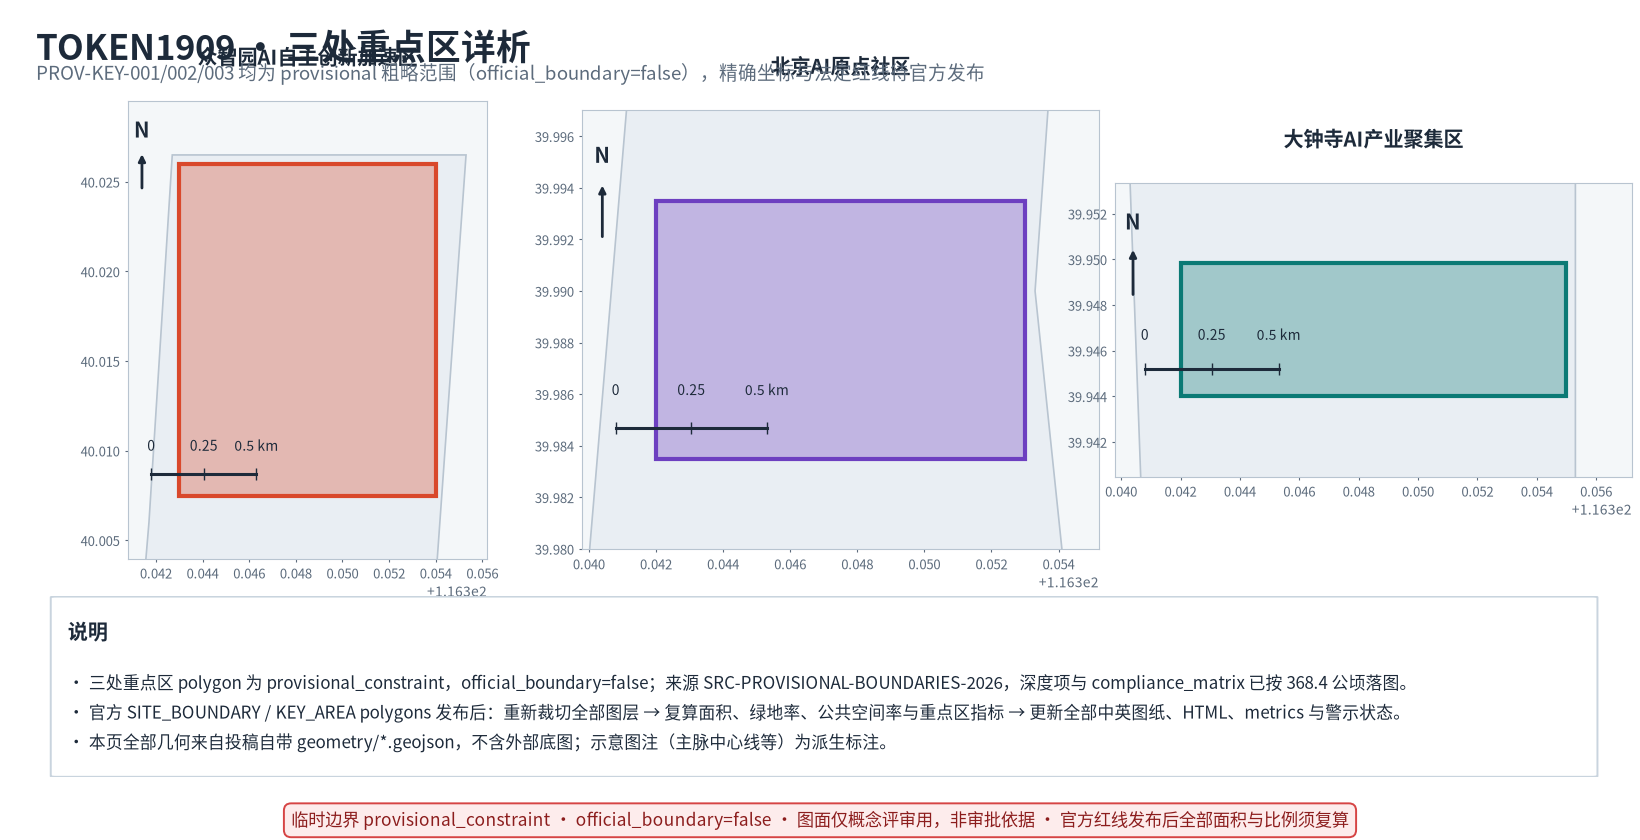
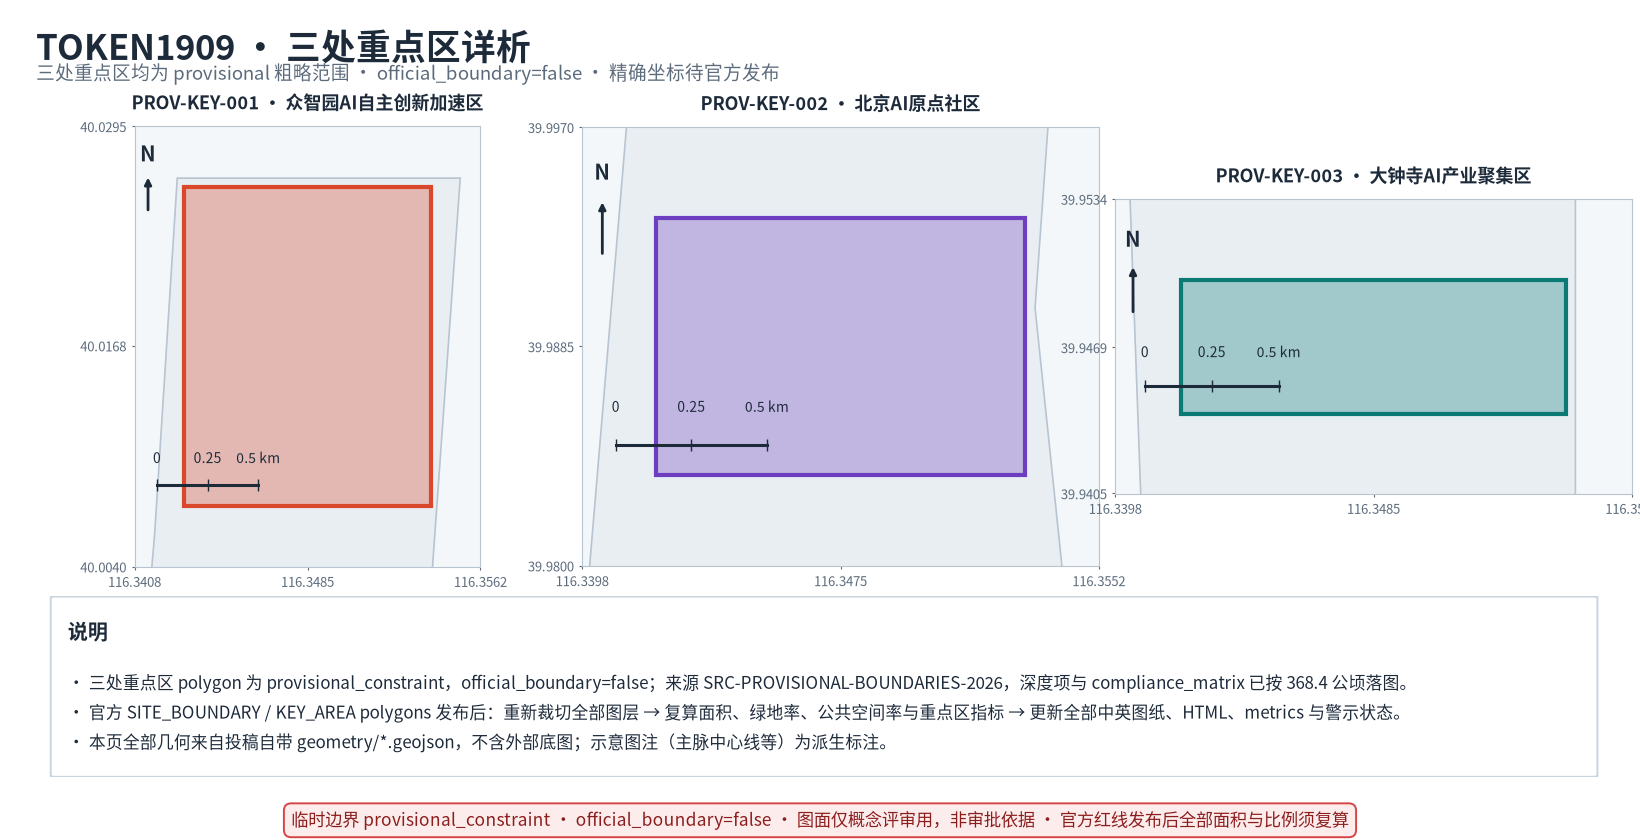
submission(MIMConsult/jingzhang-ai-symbiotic-belt): round-2 review repairs
Repairs for the 2026-08-29 review (head 681d64e5):

1. Expression - report/proposal.html tofu root cause fixed: the font provenance note was
   injected as an HTML comment inside <style>, so CSS parsers consumed the first @font-face
   rule (regular weight) as an invalid qualified rule; only bold survived. Replaced with a
   CSS comment; both faces now verified registered+loaded via document.fonts in a real
   browser engine (400/700) for all four HTML pages; coverage 0 missing glyphs.

2. Expression - figure layout: key-areas ID chips no longer collide with panel titles
   (ID folded into titles); land-use map labels staggered; mobility right-panel items
   wrapped (no truncation/overflow) and rebalanced; site-overview bottom density reduced
   (basemap note folded into legend); axis offset artifacts (e.g. 1.163e2/634e2) removed
   via explicit ticks with useOffset=False; spine/breakpoint labels moved to the empty
   map margin. All 10 figures regenerated from the same provisional geometry.

3. Risk & compliance - FONT-MSYH contradiction resolved with evidence: sources.json now
   states PDF subsets ARE embedded (fsType=8 editable-embedding evidence from msyh.ttc
   OS/2 table, Windows font EULA document-embedding permission, PDF FontDescriptor/FontFile2
   verifiable); contradictory "not embedded" wording removed; mirrored in
   report/copyright_statement.md.

4. Risk & compliance - factual wording downgraded: "隔着校门绕3年"/"see it but never use
[…]

diff --git a/submissions/MIMConsult/jingzhang-ai-symbiotic-belt/report/proposal.en.html b/submissions/MIMConsult/jingzhang-ai-symbiotic-belt/report/proposal.en.html
@@ -5,10 +5,10 @@
 <meta name="viewport" content="width=device-width, initial-scale=1">
 <title>TOKEN1909 Jingzhang AI Nexus — Urban Symbiosis Design for the Century-Old Jingzhang Railway Heritage in the AI Era - proposal report</title>
 <style>
-<!-- Offline CJK font subset embedded below (data URI, no remote requests).
-     Derived from Noto Sans SC, (c) Google LLC, SIL Open Font License 1.1;
-     subsetted and renamed "JZK Local Sans" per OFL Reserved Font Name rules.
-     License: assets/fonts/OFL-NotoSansSC-1.1.txt -->
+/* Offline CJK font subset embedded below (data URI, no remote requests).
+   Derived from Noto Sans SC, (c) 2014-2020 Adobe, SIL Open Font License 1.1;
+   subsetted and renamed "JZK Local Sans" per OFL Reserved Font Name rules.
+   Full license text: report/copyright_statement.md */
 /* Embedded CJK font subset for offline rendering.
    Derived from Noto Sans SC (c) Google LLC, licensed under the
    SIL Open Font License 1.1 (see assets/fonts/OFL-NotoSansSC-1.1.txt).

diff --git a/submissions/MIMConsult/jingzhang-ai-symbiotic-belt/report/proposal.html b/submissions/MIMConsult/jingzhang-ai-symbiotic-belt/report/proposal.html
@@ -5,10 +5,10 @@
 <meta name="viewport" content="width=device-width, initial-scale=1">
 <title>TOKEN1909 京张AI中枢——百年铁路遗址的AI时代城市共生设计 - proposal report</title>
 <style>
-<!-- Offline CJK font subset embedded below (data URI, no remote requests).
-     Derived from Noto Sans SC, (c) Google LLC, SIL Open Font License 1.1;
-     subsetted and renamed "JZK Local Sans" per OFL Reserved Font Name rules.
-     License: assets/fonts/OFL-NotoSansSC-1.1.txt -->
+/* Offline CJK font subset embedded below (data URI, no remote requests).
+   Derived from Noto Sans SC, (c) 2014-2020 Adobe, SIL Open Font License 1.1;
+   subsetted and renamed "JZK Local Sans" per OFL Reserved Font Name rules.
+   Full license text: report/copyright_statement.md */
 /* Embedded CJK font subset for offline rendering.
    Derived from Noto Sans SC (c) Google LLC, licensed under the
    SIL Open Font License 1.1 (see assets/fonts/OFL-NotoSansSC-1.1.txt).

diff --git a/submissions/MIMConsult/jingzhang-ai-symbiotic-belt/visual/index.en.html b/submissions/MIMConsult/jingzhang-ai-symbiotic-belt/visual/index.en.html
@@ -5,10 +5,10 @@
 <meta name="viewport" content="width=device-width, initial-scale=1">
 <title>TOKEN1909 Jingzhang AI Hub - visual index</title>
 <style>
-<!-- Offline CJK font subset embedded below (data URI, no remote requests).
-     Derived from Noto Sans SC, (c) Google LLC, SIL Open Font License 1.1;
-     subsetted and renamed "JZK Local Sans" per OFL Reserved Font Name rules.
-     License: assets/fonts/OFL-NotoSansSC-1.1.txt -->
+/* Offline CJK font subset embedded below (data URI, no remote requests).
+   Derived from Noto Sans SC, (c) 2014-2020 Adobe, SIL Open Font License 1.1;
+   subsetted and renamed "JZK Local Sans" per OFL Reserved Font Name rules.
+   Full license text: report/copyright_statement.md */
 /* Embedded CJK font subset for offline rendering.
    Derived from Noto Sans SC (c) Google LLC, licensed under the
    SIL Open Font License 1.1 (see assets/fonts/OFL-NotoSansSC-1.1.txt).

diff --git a/submissions/MIMConsult/jingzhang-ai-symbiotic-belt/visual/index.html b/submissions/MIMConsult/jingzhang-ai-symbiotic-belt/visual/index.html
@@ -5,10 +5,10 @@
 <meta name="viewport" content="width=device-width, initial-scale=1">
 <title>TOKEN1909 京张AI中枢 - visual index</title>
 <style>
-<!-- Offline CJK font subset embedded below (data URI, no remote requests).
-     Derived from Noto Sans SC, (c) Google LLC, SIL Open Font License 1.1;
-     subsetted and renamed "JZK Local Sans" per OFL Reserved Font Name rules.
-     License: assets/fonts/OFL-NotoSansSC-1.1.txt -->
+/* Offline CJK font subset embedded below (data URI, no remote requests).
+   Derived from Noto Sans SC, (c) 2014-2020 Adobe, SIL Open Font License 1.1;
+   subsetted and renamed "JZK Local Sans" per OFL Reserved Font Name rules.
+   Full license text: report/copyright_statement.md */
 /* Embedded CJK font subset for offline rendering.
    Derived from Noto Sans SC (c) Google LLC, licensed under the
    SIL Open Font License 1.1 (see assets/fonts/OFL-NotoSansSC-1.1.txt).

diff --git a/submissions/MIMConsult/jingzhang-ai-symbiotic-belt/proposal.en.md b/submissions/MIMConsult/jingzhang-ai-symbiotic-belt/proposal.en.md
@@ -33,7 +33,7 @@ scenarios: ["ai-traffic-walkability", "enterprise-service-copilot", "public-safe
 - Expected result: The strip shifts from a "visit once and leave" memorial belt into an "AI main street used every day". Within any 10-minute walk along the belt there is always one AI interaction node plus one heritage interpretation node. The cultural pilgrimage destination and the AI experience belt coexist on the same spatial layer.
 
 **Pillar 2 — Industry-University-City Suture: Open the physical boundaries between universities, tech parks, and residential neighborhoods; never build an isolated AI industry park; distribute AI scenarios into citizens' daily blocks so R&D, industry, and living spaces interpenetrate.**
-- Problem solved: Today three layers of physical breakpoints already exist: university gates, park perimeter walls, and residential fences. AI industry is locked inside standalone office towers — local residents "see it but never use it". University research outputs sit behind campus gates for 3+ years before they reach the market; young open-source contributors have no near-campus collaboration space.
+- Problem solved (design assumptions — the pain points below reflect commonly reported conditions in public coverage and urban studies, not locally measured baselines; verify through baseline surveys before delivery): university gates, park perimeter walls, and residential fences form multiple physical breakpoints; AI industry interacts too little with surrounding blocks — local residents "see it but never use it"; university tech-transfer cycles are commonly described in years rather than months; young open-source contributors lack near-campus collaboration space.
 - Implementation means: A triple-parallel slow-mobility suture belt runs along the 9 km main spine; the elevated slow-mobility links / covered bridges across the three critical breakpoints at Wudaokou, Qinghuadonglu Xikou, and Dazhongsi are **conceptual options / negotiable roles**, requiring road redline, under-bridge space use rights, and heritage review before any project initiation. Absent new-construction authorization, the fallback path is ground right-of-way marking + signage + existing-footway connection, and no implication of confirmed construction. The three AI+ blocks — Education / Healthcare / Commercial — are deliberately **not concentrated inside a single industrial park**, but distributed into community ground-floor retail, campus-side backstreets, and rail transit micro-centers. The near-campus achievement-transformation street shares the same walking frontage as student dorms and the neighborhood farmers' market. Each of the three core nodes (AI Origin Community → Zhongzhiyuan → Dazhongsi) is opened to surrounding residents and university staff — no gated perimeter walls. Campus-park seams reuse existing ground-floor stock and factory conversion space; no residential land is condemned to build a closed park.
 - Expected result: University faculty/students step out of campus gates and reach an achievement release hall in a 5-minute walk. Local residents can use AI citizen services on their way home from the market. Young one-person startups don't need to rent an office — they launch from a community "landing pod". Park users, university users, and residents naturally encounter each other on the same shared block. The AI industry park is never again an island.
 
@@ -78,7 +78,7 @@ Data gap statement: Official `SITE_BOUNDARY` and three `KEY_AREA` polygons are n
 | --- | --- | --- |
 | Strategy pending verification | M1/M2 auxiliary dual controls: land-take ≤ 7% AND GFA ≤ 15%; prohibit complete residential units / hotels / training centers; auxiliary commercial must be self-held | Conceptual hypothesis based on Beijing industrial-land regulatory framework; project-level formal basis not yet obtained, requires professional team verification [source:M1M2-DUAL-CONTROL] |
 | Strategy pending verification | "Investment-driven leasing" trade rent-for-equity + C-REITs exit path | Conceptual strategy based on down-cycle context; the decline reference is within a public market-report range, requires professional data verification or downgrade to qualitative statement [source:PRICE-DECLINE] |
-| Should do | F&B/retail format mix 40/30/20/10; large parks target 12-18% commercial GFA ratio | Reference from public industrial-park leasing experience, tuneable |
+| Should do | F&B/retail format mix 40/30/20/10; large parks target 12-18% commercial GFA ratio (concept parameters, not current-state statistics or promises) | Conceptual starting points referenced from public industrial-park leasing experience, tuneable |
 | Should do | Four-season annual event system + exposure→sedimentation→landing→growth→enshrinement funnel | Brand operations, start after the operating entity is in place |
 | Discard | Promise tax incentives, government approvals, or guaranteed leasing success | Exceeds the remit of a design proposal and agent |
 
@@ -234,7 +234,7 @@ Per [standard:MOHURD-CONTROL-DETAILED-PLANNING] + [standard:MNR-LAND-USE-CLASSIF
 
 **AI+Healthcare Block (South wing of Dazhongsi)**: Ground-floor conversion in the Dazhongsi area [data:geometry/key_areas.geojson#PROV-KEY-003]. Ships AI medical-imaging consultation pilot, health-management experience, and a compliance-first data-element salon (strict authorization, full audit trail). Serves: everyday residents + corporate reception. Privacy boundary: no commercial recommendations from resident profiles; medical data is aggregated only and always has manual review.
 
-**AI+Commercial Block (Wudaokou → Dazhongsi mid-section, city-level retail frontage)**: Developer Promenade + T3 Unmanned Commercial Operation test [depth:ai_scenarios_user_profiles]. 24h self-service formats, intelligent terminal showrooms, content-consumption scenes. Serves: youth groups, local residents, enterprise visitors. Investment rule: 40/30/20/10 format mix (see Industry Ecosystem chapter); no pseudo-precise promises.
+**AI+Commercial Block (Wudaokou → Dazhongsi mid-section, city-level retail frontage)**: Developer Promenade + T3 Unmanned Commercial Operation test [depth:ai_scenarios_user_profiles]. 24h self-service formats, intelligent terminal showrooms, content-consumption scenes. Serves: youth groups, local residents, enterprise visitors. Investment rule: 40/30/20/10 concept-parameter format mix (see Industry Ecosystem chapter; not a current-state conclusion); no pseudo-precise promises.
 
 ---
 

diff --git a/submissions/MIMConsult/jingzhang-ai-symbiotic-belt/report/copyright_statement.md b/submissions/MIMConsult/jingzhang-ai-symbiotic-belt/report/copyright_statement.md
@@ -3,110 +3,15 @@
 All submitted text, geometry, diagrams, PDFs, and static HTML assets are generated by the declared AI agent or use cleared public/user-provided sources listed in sources.json. No remote assets are required by visual/index.html.
 
 
-## 内嵌字体许可 / Embedded font licensing
+## 微软雅黑（Microsoft YaHei）文档嵌入许可 / Microsoft YaHei document-embedding license
 
-本包的四个 HTML 页面（report/proposal.html、report/proposal.en.html、visual/index.html、visual/index.en.html）
-以 data URI 内嵌了一个离线 CJK 字体子集（family "JZK Local Sans"，Regular + Bold woff2），
-用于保证断网环境下中文渲染不出现方框缺字，且不产生任何远程字体请求。
+四份 PDF 图纸（a0-boards.pdf / a0-boards.en.pdf / a3-booklet.pdf / a3-booklet.en.pdf）由微软雅黑（msyh.ttc，系统字体）在生成时嵌入 TrueType 字形子集，用于 PDF 内的文字渲染。本包不重新分发字体文件本身。
 
-该子集派生自 Noto Sans SC（© 2014-2020 Adobe），依据 SIL Open Font License 1.1 授权；
-子集按 OFL 保留字体名条款改名，不含 "Noto" 名称。OFL 1.1 许可证全文如下（未改动）：
+嵌入许可证据（2026-08-29 读取）：
+- OS/2 表 fsType = 8（Editable embedding allowed，OpenType 规范）；
+- Microsoft Windows 字体 EULA 允许将字体嵌入文档用于查看与打印（嵌入位许可），禁止以独立字体文件形式再分发；
+- PDF 二进制中包含 FontDescriptor / FontFile2 子集对象（可核验）。
 
----
+许可边界：仅限文档内嵌渲染；不提供、不传播 msyh.ttc 本身；终端用户须持有 Windows 字体授权（Windows 系统自带）。
 
-```
-Copyright 2014-2021 Adobe (http://www.adobe.com/), with Reserved Font Name 'Source'
-
-This Font Software is licensed under the SIL Open Font License, Version 1.1.
-This license is copied below, and is also available with a FAQ at:
-https://scripts.sil.org/OFL
-
-
------------------------------------------------------------
-SIL OPEN FONT LICENSE Version 1.1 - 26 February 2007
------------------------------------------------------------
-
-PREAMBLE
-The goals of the Open Font License (OFL) are to stimulate worldwide
-development of collaborative font projects, to support the font creation
-efforts of academic and linguistic communities, and to provide a free and
-open framework in which fonts may be shared and improved in partnership
-with others.
-
-The OFL allows the licensed fonts to be used, studied, modified and
-redistributed freely as long as they are not sold by themselves. The
-fonts, including any derivative works, can be bundled, embedded, 
-redistributed and/or sold with any software provided that any reserved
-names are not used by derivative works. The fonts and derivatives,
-however, cannot be released under any other type of license. The
-requirement for fonts to remain under this license does not apply
-to any document created using the fonts or their derivatives.
-
-DEFINITIONS
-"Font Software" refers to the set of files released by the Copyright
-Holder(s) under this license and clearly marked as such. This may
-include source files, build scripts and documentation.
-
-"Reserved Font Name" refers to any names specified as such after the
-copyright statement(s).
-
-"Original Version" refers to the collection of Font Software components as
-distributed by the Copyright Holder(s).
-
-"Modified Version" refers to any derivative made by adding to, deleting,
-or substituting -- in part or in whole -- any of the components of the
-Original Version, by changing formats or by porting the Font Software to a
-new environment.
-
-"Author" refers to any designer, engineer, programmer, technical
-writer or other person who contributed to the Font Software.
-
-PERMISSION & CONDITIONS
-Permission is hereby granted, free of charge, to any person obtaining
-a copy of the Font Software, to use, study, copy, merge, embed, modify,
-redistribute, and sell modified and unmodified copies of the Font
-Software, subject to the following conditions:
-
-1) Neither the Font Software nor any of its individual components,
-in Original or Modified Versions, may be sold by itself.
-
-2) Original or Modified Versions of the Font Software may be bundled,
-redistributed and/or sold with any software, provided that each copy
-contains the above copyright notice and this license. These can be
-included either as stand-alone text files, human-readable headers or
-in the appropriate machine-readable metadata fields within text or
-binary files as long as those fields can be easily viewed by the user.
-
-3) No Modified Version of the Font Software may use the Reserved Font
-Name(s) unless explicit written permission is granted by the corresponding
-Copyright Holder. This restriction only applies to the primary font name as
-presented to the users.
-
-4) The name(s) of the Copyright Holder(s) or the Author(s) of the Font
-Software shall not be used to promote, endorse or advertise any
-Modified Version, except to acknowledge the contribution(s) of the
-Copyright Holder(s) and the Author(s) or with their explicit written
-permission.
-
-5) The Font Software, modified or unmodified, in part or in whole,
-must be distributed entirely under this license, and must not be
-distributed under any other license. The requirement for fonts to
-remain under this license does not apply to any document created
-using the Font Software.
-
-TERMINATION
-This license becomes null and void if any of the above conditions are
-not met.
-
-DISCLAIMER
-THE FONT SOFTWARE IS PROVIDED "AS IS", WITHOUT WARRANTY OF ANY KIND,
-EXPRESS OR IMPLIED, INCLUDING BUT NOT LIMITED TO ANY WARRANTIES OF
-MERCHANTABILITY, FITNESS FOR A PARTICULAR PURPOSE AND NONINFRINGEMENT
-OF COPYRIGHT, PATENT, TRADEMARK, OR OTHER RIGHT. IN NO EVENT SHALL THE
-COPYRIGHT HOLDER BE LIABLE FOR ANY CLAIM, DAMAGES OR OTHER LIABILITY,
-INCLUDING ANY GENERAL, SPECIAL, INDIRECT, INCIDENTAL, OR CONSEQUENTIAL
-DAMAGES, WHETHER IN AN ACTION OF CONTRACT, TORT OR OTHERWISE, ARISING
-FROM, OUT OF THE USE OR INABILITY TO USE THE FONT SOFTWARE OR FROM
-OTHER DEALINGS IN THE FONT SOFTWARE.
-
-```
+相关声明：sources.json 的 FONT-MSYH 条目（已同步修正）。
